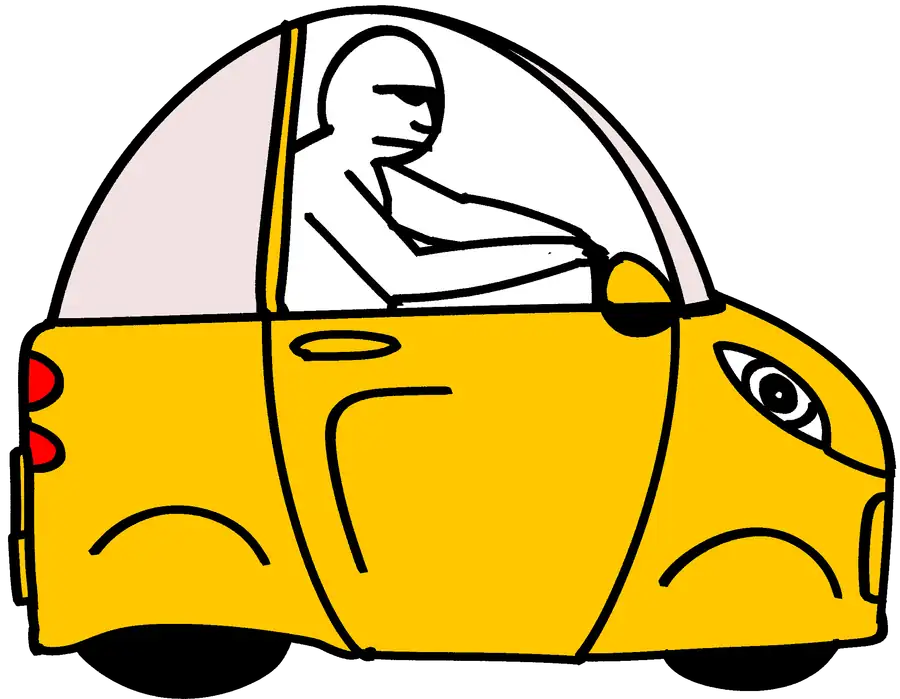
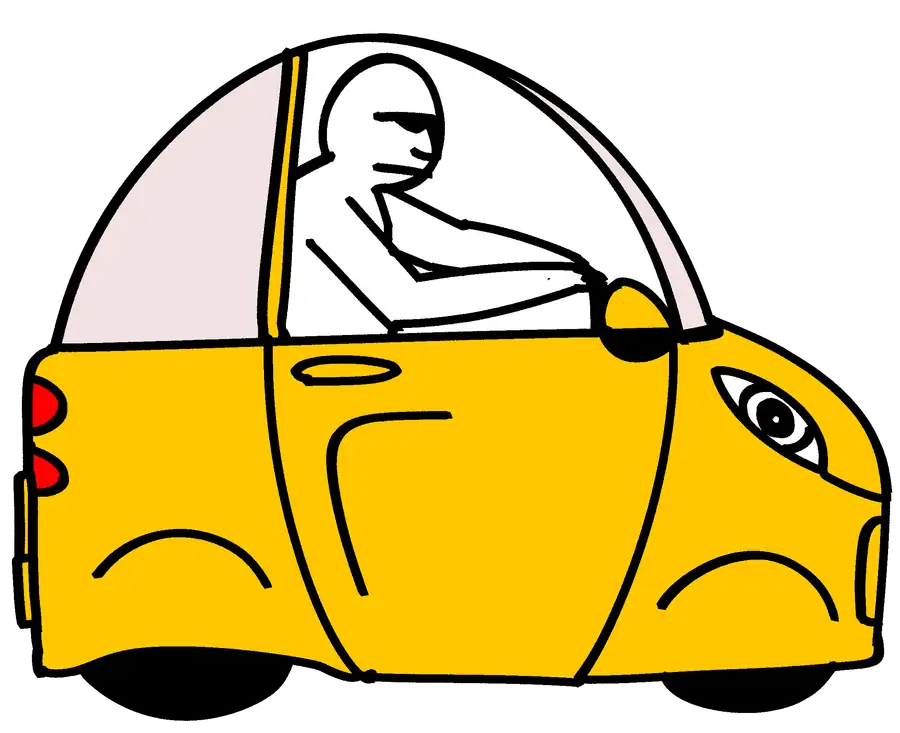
Uncrop the driver's hand and smooth the intro on Safari
The hand was sliced off. My vertical measurement averaged 10px bands across
the full canvas width, which diluted a thin line to nothing, so I cropped
at y=320 while the raised hand actually reaches y=268 on frames 26 and 28.
Measuring the exact topmost non-white row per frame puts the real content at
y 268..2066, so the crop moves to 250..2090 and every sprite now clears all
four edges with room to spare.

Two things were fighting the animation:

- The WebGL background compiled and ran a full-screen glitch shader at 60fps
  while the intro played. It now waits for the loader to leave (lib/intro.ts)
  and fades itself in, with a timeout so a broken intro can never leave the
  page without a background. Verified: zero WebGL canvases exist for the whole
  run of the loader, the first appears ~300ms after it unmounts.
- Ten stacked 900x733 <img> elements meant the compositor juggled ~26MB of
  decoded bitmaps every frame. They collapse to one <canvas> that the rAF loop
  paints only when the sprite index actually changes.

The cover panel also shrinks from 220vw x 120% to 150vw x 100% — the smallest
area that still covers the viewport when the car is parked off the left edge.

Drops the dead pagereveal.tsx, superseded and referenced nowhere.

Changed region(s): [[0.0, 0.0, 0.9956, 1.0], [0.0933, 0.7811, 0.1244, 0.8112]]

diff --git a/components/loader.tsx b/components/loader.tsx
@@ -1,34 +1,42 @@
 "use client";
 
 import { useEffect, useRef, useState, type CSSProperties } from "react";
+import { markIntroDone } from "@/lib/intro";
 
 /**
- * Intro loader: the car drives in from the left and uncovers "FRANK" as it goes.
+ * Intro loader: the car drives in, waves, and uncovers "frank" as it leaves.
  *
- * How the reveal works: the car and a black cover panel share the SAME x value
+ * How the reveal works: the car and a white cover panel share the SAME x value
  * every frame. The cover starts over the wordmark and its left edge rides the
  * car's rear bumper, so letters emerge exactly as the car clears them. Sharing
  * one number means the two can never drift apart.
  *
- * Frames come from public/loader (built by scripts-build-loader.mjs). The car
+ * Frames come from public/loader (built by scripts/build-loader.mjs). The car
  * body is rigid across the source frames, so CSS owns the motion at 60fps and
  * the sprites only carry the driver's animation — that is why 10 frames is
  * enough where the raw export had 48.
+ *
+ * The sprites are painted into a single <canvas>. Stacking ten 900x733 <img>
+ * elements and cross-fading them meant the compositor juggled ~26MB of decoded
+ * bitmaps every frame, which Safari handled badly.
  */
 
 const FRAME_COUNT = 10;
 const CRUISE_FRAMES = 3; // indices 0-2: hands on the wheel
 const WAVE_START = 3; // indices 3-9: the driver raises an arm
 
-// The gesture runs early and is over well before the car reaches the middle.
+// The gesture runs early and is over before the car reaches the middle.
 // The source art only ever raises the arm, so the lower half of the wave is the
 // same frames played back in reverse — a wave looks the same going down.
 // Tuned against the geometry: the car is only fully on screen for p in
-// [0.254, 0.746], so the wave runs from the moment it clears the left edge
-// (p=0.27) until it reaches dead centre (p=0.50).
+// [0.254, 0.746], so the wave spans p=0.27 (just clear of the left edge) to
+// p=0.50 (dead centre).
 const GESTURE_START = 0.22;
 const GESTURE_END = 0.62;
 const CRUISE_MS = 150; // hand-drawn boil while just driving
+
+const SPRITE_W = 900;
+const SPRITE_H = 733;
 
 const DRIVE_MS = 1750;
 const HOLD_MS = 320;
@@ -68,9 +76,10 @@ export default function Loader() {
   const [pct, setPct] = useState(0);
   const [driving, setDriving] = useState(false);
 
-  const carRef = useRef<HTMLDivElement>(null);
+  const canvasRef = useRef<HTMLCanvasElement>(null);
   const coverRef = useRef<HTMLDivElement>(null);
-  const imgsRef = useRef<Array<HTMLImageElement | null>>([]);
+  const framesRef = useRef<HTMLImageElement[]>([]);
+  const ctxRef = useRef<CanvasRenderingContext2D | null>(null);
   const lastFrameRef = useRef(-1);
   const rafRef = useRef<number | null>(null);
   const doneRef = useRef(false);
@@ -85,11 +94,24 @@ export default function Loader() {
       if (doneRef.current) return;
       doneRef.current = true;
       setLeaving(true);
-      window.setTimeout(() => !cancelled && setMounted(false), EXIT_MS);
+      window.setTimeout(() => {
+        if (cancelled) return;
+        setMounted(false);
+        // Only now let the page start its WebGL background.
+        markIntroDone();
+      }, EXIT_MS);
     };
 
     // Hard stop: if anything stalls, the site must still become reachable.
     const safety = window.setTimeout(finish, SAFETY_MS);
+
+    const paint = (idx: number) => {
+      const ctx = ctxRef.current;
+      const img = framesRef.current[idx];
+      if (!ctx || !img) return;
+      ctx.clearRect(0, 0, SPRITE_W, SPRITE_H);
+      ctx.drawImage(img, 0, 0, SPRITE_W, SPRITE_H);
+    };
 
     const drive = () => {
       if (cancelled || doneRef.current) return;
@@ -101,6 +123,8 @@ export default function Loader() {
       }
 
       setDriving(true);
+      paint(0);
+      lastFrameRef.current = 0;
       const start = performance.now();
 
       const tick = (now: number) => {
@@ -109,11 +133,11 @@ export default function Loader() {
         const p = easeDrive(raw);
 
         const vw = window.innerWidth;
-        const carW = carRef.current?.offsetWidth ?? vw * 0.34;
+        const carW = canvasRef.current?.offsetWidth ?? vw * 0.34;
         // Rear bumper travels from just off-screen left to just off-screen right.
         const x = -carW + p * (vw + carW);
 
-        if (carRef.current) carRef.current.style.transform = `translate3d(${x}px,-50%,0)`;
+        if (canvasRef.current) canvasRef.current.style.transform = `translate3d(${x}px,-50%,0)`;
         if (coverRef.current) coverRef.current.style.transform = `translate3d(${x}px,0,0)`;
 
         let idx: number;
@@ -127,8 +151,7 @@ export default function Loader() {
           idx = Math.floor((now - start) / CRUISE_MS) % CRUISE_FRAMES;
         }
         if (idx !== lastFrameRef.current) {
-          imgsRef.current[lastFrameRef.current]?.style.setProperty("opacity", "0");
-          imgsRef.current[idx]?.style.setProperty("opacity", "1");
+          paint(idx);
           lastFrameRef.current = idx;
         }
 
@@ -153,6 +176,7 @@ export default function Loader() {
       const imgs = Array.from({ length: FRAME_COUNT }, (_, i) => {
         const img = new Image();
         img.src = frameSrc(i);
+        framesRef.current[i] = img;
         return img
           .decode()
           .catch(() => undefined)
@@ -179,7 +203,11 @@ export default function Loader() {
   // two transforms are never React-controlled, so the re-render that starts the
   // exit cannot reset them mid-flight.
   useEffect(() => {
-    carRef.current?.style.setProperty("transform", "translate3d(-100vw,-50%,0)");
+    const c = canvasRef.current;
+    if (c) {
+      c.style.setProperty("transform", "translate3d(-100vw,-50%,0)");
+      ctxRef.current = c.getContext("2d");
+    }
     coverRef.current?.style.setProperty("transform", "translate3d(-100vw,0,0)");
   }, []);
 
@@ -192,6 +220,9 @@ export default function Loader() {
       document.body.style.overflow = prev;
     };
   }, [mounted]);
+
+  // If the component is ever torn down without finishing, don't strand the page.
+  useEffect(() => () => markIntroDone(), []);
 
   if (!mounted) return null;
 
@@ -222,13 +253,15 @@ export default function Loader() {
     userSelect: "none",
   };
 
-  // Same x as the car, so its left edge is the car's rear bumper.
+  // Same x as the car, so its left edge is the car's rear bumper. 150vw is the
+  // smallest width that still covers the viewport when the car is parked off
+  // the left edge — a wider panel is just more area for the compositor.
   const cover: CSSProperties = {
     position: "absolute",
-    top: "-10%",
+    top: 0,
     left: 0,
-    height: "120%",
-    width: "220vw",
+    height: "100%",
+    width: "150vw",
     background: "#ffffff",
     willChange: "transform",
   };
@@ -237,8 +270,9 @@ export default function Loader() {
     position: "absolute",
     top: "54%",
     left: 0,
+    display: "block",
     width: "clamp(230px, 34vw, 560px)",
-    aspectRatio: "900 / 699",
+    height: "auto",
     willChange: "transform",
     opacity: driving ? 1 : 0,
   };
@@ -249,31 +283,13 @@ export default function Loader() {
 
       <div ref={coverRef} data-loader="cover" style={cover} />
 
-      <div ref={carRef} data-loader="car" style={car}>
-        {Array.from({ length: FRAME_COUNT }, (_, i) => (
-          // Deliberately a plain <img>: these are already size-optimised WebP at a
-          // fixed display size, and the loader needs to own preload/decode itself
-          // so the animation never starts on an undecoded frame.
-          // eslint-disable-next-line @next/next/no-img-element
-          <img
-            key={i}
-            ref={(el) => {
-              imgsRef.current[i] = el;
-            }}
-            src={frameSrc(i)}
-            alt=""
-            draggable={false}
-            decoding="async"
-            style={{
-              position: "absolute",
-              inset: 0,
-              width: "100%",
-              height: "100%",
-              opacity: i === 0 ? 1 : 0,
-            }}
-          />
-        ))}
-      </div>
+      <canvas
+        ref={canvasRef}
+        data-loader="car"
+        width={SPRITE_W}
+        height={SPRITE_H}
+        style={car}
+      />
 
       {/* Real asset progress, in the spirit of the reference site's counter. */}
       <div

diff --git a/app/page.tsx b/app/page.tsx
@@ -1,7 +1,7 @@
 "use client";
 
 import { motion, useScroll, useMotionValueEvent } from "framer-motion";
-import { useRef, useState } from "react";
+import { useEffect, useRef, useState } from "react";
 import Image from "next/image";
 import dynamic from "next/dynamic";
 
@@ -17,6 +17,7 @@ import ScrambledText from "@/components/wierdtext";
 // Data
 import { projects } from "@/lib/projects";
 import { works, education } from "@/lib/data";
+import { isIntroDone, onIntroDone } from "@/lib/intro";
 
 import type { Variants } from "framer-motion";
 
@@ -80,6 +81,8 @@ const TILE_SPRING = { type: "spring", stiffness: 240, damping: 16 } as const;
 const BAR_ALWAYS_VISIBLE_ABOVE = 100;
 // Ignore scroll deltas smaller than this so trackpad jitter can't flicker the bar.
 const BAR_SCROLL_JITTER = 4;
+// Upper bound on how long the background waits for the intro to finish.
+const SAFETY_BACKGROUND_MS = 9000;
 
 // =============================
 // PAGE COMPONENT
@@ -89,6 +92,7 @@ export default function Home() {
 
   // Hide the top bar while scrolling down, bring it back on scroll up.
   const [barHidden, setBarHidden] = useState(false);
+  const [backgroundReady, setBackgroundReady] = useState(false);
   const { scrollY } = useScroll();
   const hadFirstScrollEvent = useRef(false);
 
@@ -114,11 +118,28 @@ export default function Home() {
     setBarHidden(delta > 0);
   });
 
+  useEffect(() => {
+    if (isIntroDone()) {
+      setBackgroundReady(true);
+      return;
+    }
+    const off = onIntroDone(() => setBackgroundReady(true));
+    // Belt and braces: if the intro never reports in, still show the background.
+    const t = window.setTimeout(() => setBackgroundReady(true), SAFETY_BACKGROUND_MS);
+    return () => {
+      off();
+      window.clearTimeout(t);
+    };
+  }, []);
+
   return (
     <main className="relative min-h-screen text-white bg-transparent overflow-visible z-10">
 
-      {/* BACKGROUND — MUST BE FIRST & FIXED */}
-      <FaultyBackground />
+      {/* BACKGROUND — MUST BE FIRST & FIXED.
+          Held back until the intro loader is gone: compiling and running a
+          full-screen WebGL shader while the loader animates made the intro
+          stutter badly on Safari. It fades itself in on mount. */}
+      {backgroundReady && <FaultyBackground />}
 
 
       {/* TOP BAR — SIGNATURE + SOCIALS

diff --git a/components/FaultyBackground.tsx b/components/FaultyBackground.tsx
@@ -1,6 +1,7 @@
 "use client";
 
 import dynamic from "next/dynamic";
+import { useEffect, useState } from "react";
 
 const FaultyTerminal = dynamic(() => import("./Faultyterminal"), {
   ssr: false,
@@ -10,8 +11,18 @@ const FaultyTerminal = dynamic(() => import("./Faultyterminal"), {
 const GRID_MUL: [number, number] = [2, 1];
 
 export default function FaultyBackground() {
+  // Mounts after the intro loader leaves, so ease it in rather than popping.
+  const [shown, setShown] = useState(false);
+  useEffect(() => {
+    const r = requestAnimationFrame(() => setShown(true));
+    return () => cancelAnimationFrame(r);
+  }, []);
+
   return (
-    <div className="fixed inset-0 z-[-20] pointer-events-none">
+    <div
+      className="fixed inset-0 z-[-20] pointer-events-none"
+      style={{ opacity: shown ? 1 : 0, transition: "opacity 700ms ease" }}
+    >
       <FaultyTerminal
         scale={5}
         gridMul={GRID_MUL}

diff --git a/lib/intro.ts b/lib/intro.ts
@@ -1,0 +1,32 @@
+/**
+ * Tiny signal so the page can hold back expensive work until the intro loader
+ * is out of the way. The WebGL background compiles and runs a full-screen
+ * shader at 60fps; starting that while the loader animates is what made the
+ * intro stutter on Safari.
+ *
+ * Module-level flag plus an event, so a listener that subscribes late (or after
+ * the intro already finished) still gets the answer.
+ */
+
+const EVENT = "intro:done";
+
+let done = false;
+
+export function isIntroDone() {
+  return done;
+}
+
+export function markIntroDone() {
+  if (done) return;
+  done = true;
+  window.dispatchEvent(new Event(EVENT));
+}
+
+export function onIntroDone(cb: () => void) {
+  if (done) {
+    cb();
+    return () => {};
+  }
+  window.addEventListener(EVENT, cb);
+  return () => window.removeEventListener(EVENT, cb);
+}
